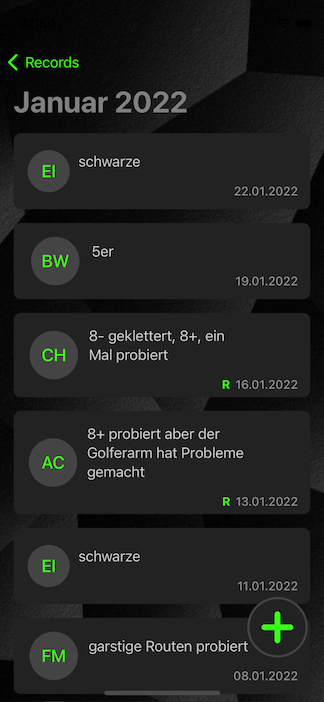
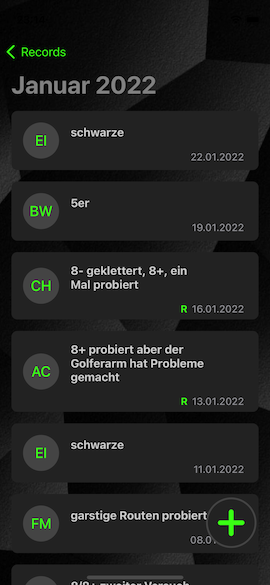
replaces screenshot

diff --git a/README.md b/README.md
@@ -1,2 +1,2 @@
 # TuneIn
-<img src="https://github.com/cud8a/TuneIn/blob/main/screenshot.png" width="324" height="702">
+<img src="https://github.com/cud8a/TuneIn/blob/main/screenshot.png" width="270" height="585">
